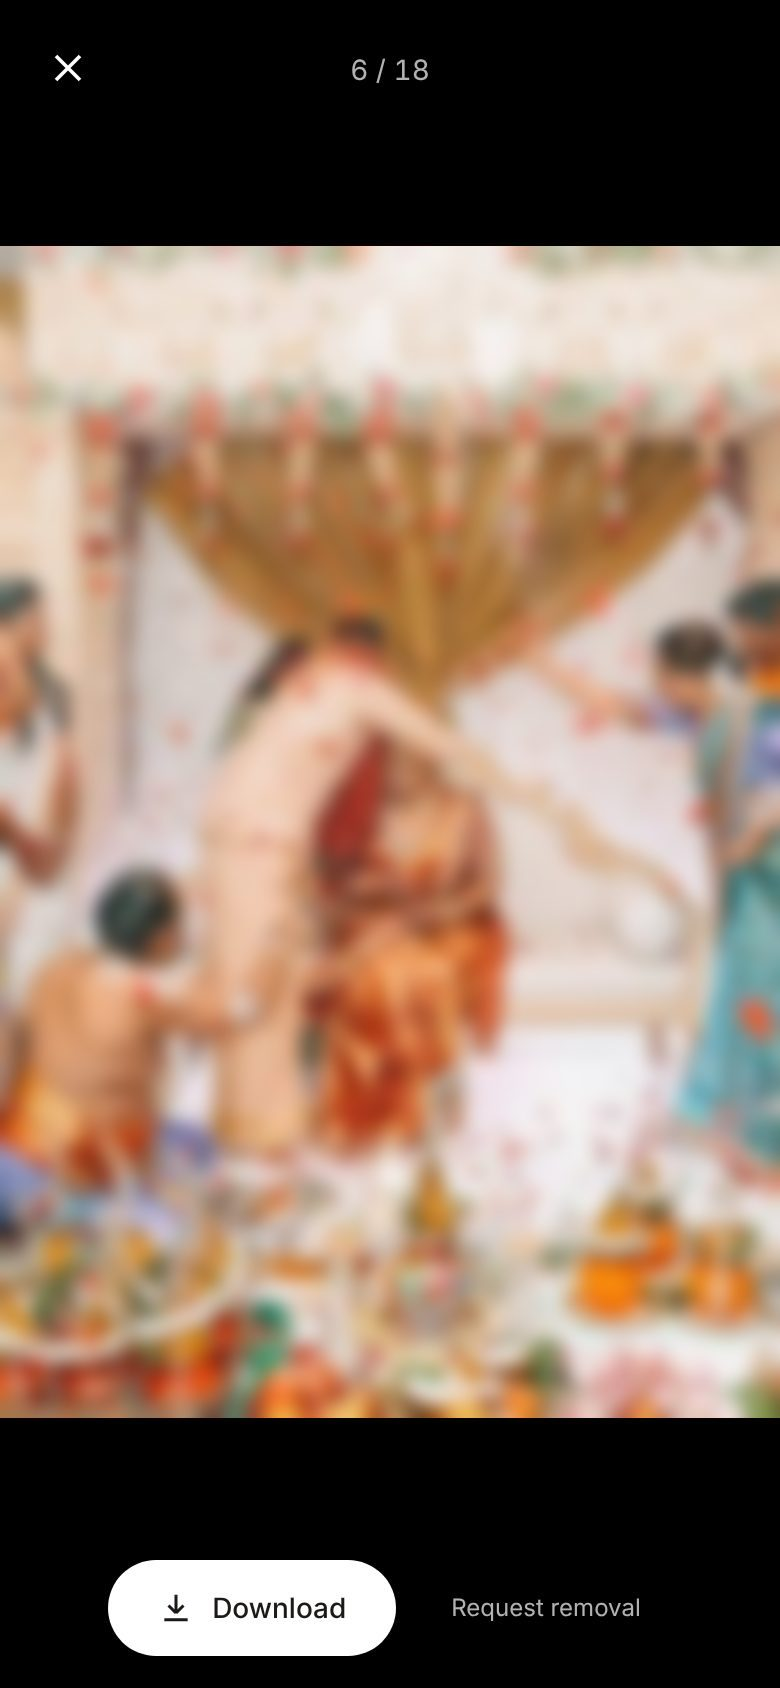
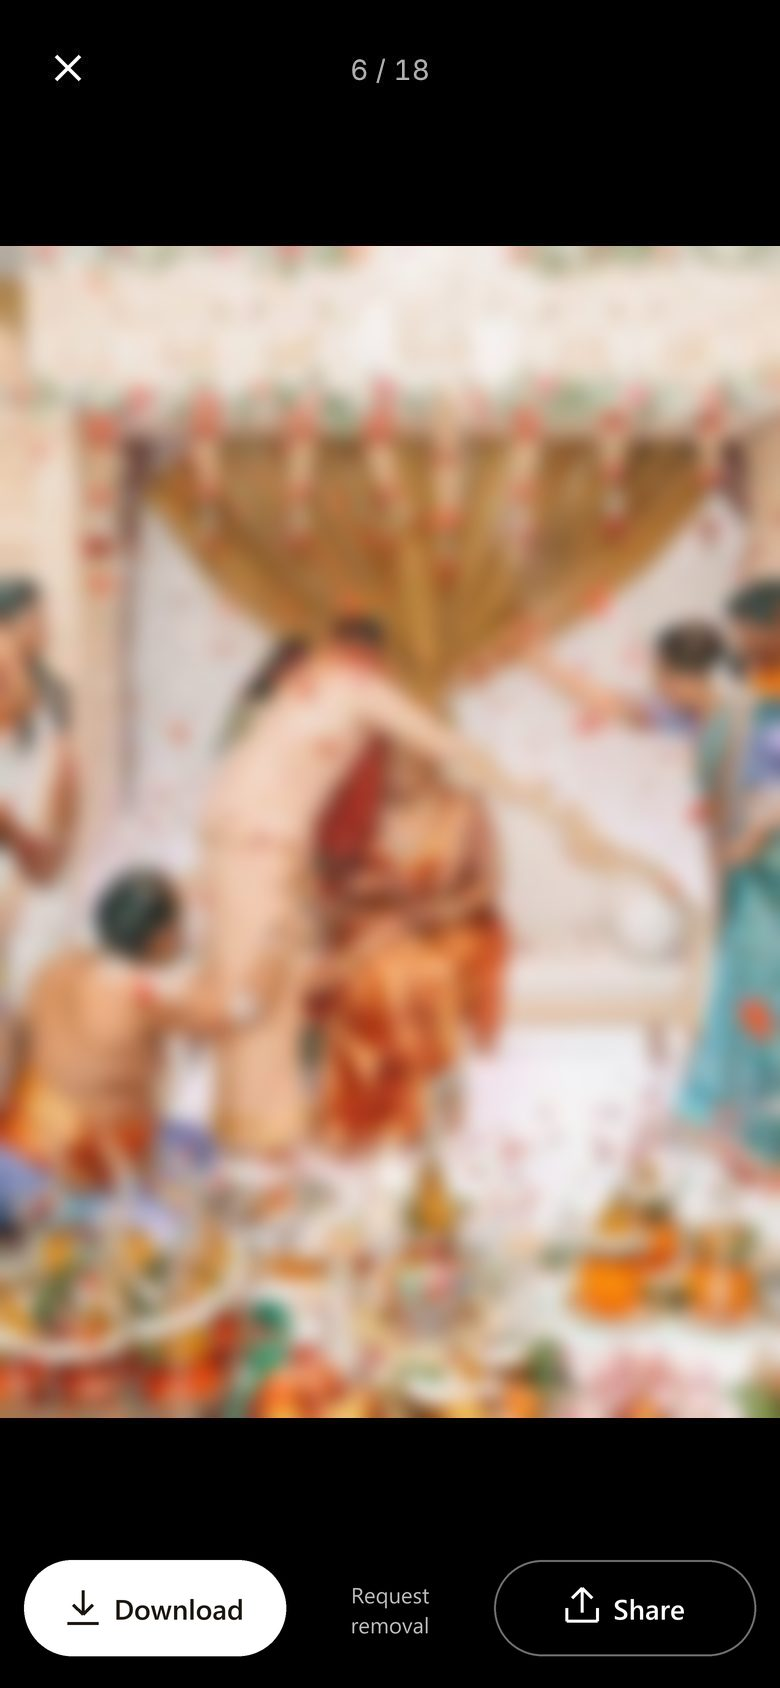
Instant Memories page: match the latest app, add pricing
- Uploader for Windows or Mac, up to 4 cameras per laptop, pause a
  camera; guests can Share (viewer screenshot shows the Share button).
- Galleries open 6 months, extendable at Rs 15/GB, deleted 30 days
  after closing; couples go to their studio for login help.
- Studio features: print-ready board and table cards, bulk actions and
  computer uploads, client galleries, branded guides.
- New pricing section (Main, Quick, packs, client gallery) with a link
  to the app's pricing page; FAQ answers on cost and payment.
- Hero's second button speaks to studios: "Put your brand on every
  phone" instead of the couples CTA.

Changed region(s): [[0.0308, 0.9242, 0.5538, 0.9858], [0.5846, 0.9242, 0.8923, 0.9858]]

diff --git a/src/data/instantMemories.js b/src/data/instantMemories.js
@@ -10,13 +10,11 @@
 
 export const IM_DEMO_MESSAGE =
   "Hi McreatiK, I'm a photographer and I'd like a demo of Instant Memories, the live wedding gallery."
-export const IM_COUPLE_MESSAGE =
-  "Hi McreatiK, we're getting married and we'd like Instant Memories (the live photo gallery) at our wedding."
 
 export const IM_STEPS = [
   {
     title: 'Shoot as usual',
-    body: "Your camera sends each photo over Wi-Fi to a laptop running the Instant Memories uploader. More than one camera? Add one uploader each.",
+    body: 'Your camera sends each photo over Wi-Fi to a laptop running the Instant Memories uploader for Windows or Mac. Up to 4 cameras can share one laptop.',
   },
   {
     title: 'It appears in seconds',
@@ -29,12 +27,14 @@ export const IM_STEPS = [
 ]
 
 export const IM_FOR_STUDIOS = [
-  { title: 'Your brand on every phone', body: 'Your studio name, logo and Instagram on the gallery and the printed QR poster. Every guest sees who took the photos.' },
-  { title: 'Live during the event', body: 'Photos reach guests while the event is still happening, not weeks later. It is the moment people talk about.' },
-  { title: 'Built for real venues', body: 'Several cameras at once, an offline queue for bad Wi-Fi, duplicates skipped automatically.' },
-  { title: 'You stay in control', body: "Hide, delete or like photos and they update on guests' phones instantly. Sort photos into albums like Couple, Rituals and Candid." },
-  { title: 'Album selection, sorted', body: "Give the couple their own login. They pick album photos, you see the picks live and download them as a ZIP." },
-  { title: 'Proof that it worked', body: 'See how many guests opened the gallery, scanned the QR, viewed and saved photos — and which photos they loved most.' },
+  { title: 'Your brand on every phone', body: 'Your studio name, logo and Instagram on the gallery, so every guest sees who took the photos.' },
+  { title: 'Print-ready board and table cards', body: 'Download an 18×24 in studio board in Cream, Dark or White, plus event and table cards with the QR code, ready for the printer.' },
+  { title: 'Built for real venues', body: 'Up to 4 cameras on one laptop, an offline queue for bad Wi-Fi and duplicates skipped. Pause a camera for private moments.' },
+  { title: 'You stay in control', body: "Hide, delete or like photos, one or many at once, and guests' phones update instantly. Add photos from your computer too." },
+  { title: 'Album selection, sorted', body: 'Give the couple their own login. They pick album photos, you see the picks live and download them as a ZIP.' },
+  { title: 'Client galleries without a live event', body: 'Just delivering photos? Create a private, branded client gallery for the couple to pick album photos and download.' },
+  { title: 'Guides with your logo', body: 'Ready-made guides for your couples and guests, with your studio name and logo, to share as a PDF.' },
+  { title: 'Proof that it worked', body: 'See how many guests opened the gallery, scanned the QR, viewed, saved and shared photos — and which ones they loved most.' },
 ]
 
 export const IM_FOR_COUPLES = [
@@ -47,7 +47,7 @@ export const IM_FOR_COUPLES = [
 export const IM_FOR_GUESTS = [
   { title: 'Scan and open', body: 'Point your phone camera at the QR code. The gallery opens in your browser — nothing to install, no name or number asked.' },
   { title: 'Watch it live', body: 'New photos appear on their own while the page is open — no refreshing.' },
-  { title: 'Save your favourites', body: 'Download your favourite photos to your phone in one tap (on some iPhones, press and hold the photo to save it).' },
+  { title: 'Save and share', body: 'Download your favourite photos in one tap, or share them straight to family from your phone.' },
   { title: 'Your privacy respected', body: 'Location is removed from every photo, and anyone can ask for a photo of them to be taken down.' },
 ]
 
@@ -57,7 +57,8 @@ export const IM_PRIVACY = [
   'Full-quality originals are private: only the couple and the studio can download them, through links that expire.',
   'Guests never sign up: we collect no names, phone numbers or emails.',
   'Anyone can request a photo removal; we aim to take it down within 3 working days, and the studio can hide it instantly.',
-  'Photos are stored with Cloudflare and data with Supabase, encrypted, and deleted on the date the studio sets.',
+  'Photos are stored with Cloudflare and data with Supabase, encrypted.',
+  'Galleries stay open for 6 months (longer only if the studio extends them) and are deleted permanently 30 days after they close.',
 ]
 
 export const IM_FAQ_TABS = ['Studios', 'Couples', 'Guests']
@@ -65,15 +66,17 @@ export const IM_FAQ_TABS = ['Studios', 'Couples', 'Guests']
 export const IM_FAQ = [
   /* Studios */
   { tab: 'Studios', question: 'Which cameras work?', answer: 'Any camera with FTP transfer over Wi-Fi (for example the Canon EOS R6 Mark II). The uploader can also watch a folder, such as a card-reader or tethering folder.' },
-  { tab: 'Studios', question: 'Can several photographers upload to one event?', answer: 'Yes. Add one uploader per camera or laptop; the dashboard shows which cameras are online and how many photos each one sent.' },
+  { tab: 'Studios', question: 'Can several photographers upload to one event?', answer: 'Yes. One laptop handles up to 4 cameras, and you can add more laptops. The dashboard shows each camera by name, whether it is online and how many photos it sent.' },
+  { tab: 'Studios', question: 'Can I stop a camera during private moments?', answer: 'Yes. Pause a camera from the uploader or the dashboard; nothing it shoots while paused goes to the gallery.' },
   { tab: 'Studios', question: 'What if the venue internet drops?', answer: 'Nothing is lost. Every photo is saved to the laptop’s queue first and uploads when the connection returns; guests’ phones catch up automatically.' },
   { tab: 'Studios', question: 'Do my RAW files get uploaded?', answer: 'No. During the event only a light gallery copy is sent, so it stays fast. You can add full-quality JPEG originals from the dashboard later for the couple.' },
   { tab: 'Studios', question: 'Can I remove a photo from guests’ phones?', answer: 'Yes. Hide or delete it and it disappears from every open gallery immediately — one photo or many at once.' },
   { tab: 'Studios', question: 'Who owns the photos?', answer: 'You and your couple. We only store and show them for your event; we don’t use them for anything else, show ads or sell data.' },
-  { tab: 'Studios', question: 'How long are photos kept?', answer: 'Until the delete date you set for each event (by default 90 days after the event). Deleting an event removes its photos permanently.' },
-  { tab: 'Studios', question: 'How much does it cost?', answer: 'It depends on how many events you shoot — there is per-event pricing and a monthly package. Message us for a quick demo and a quote for your volume.' },
+  { tab: 'Studios', question: 'How long are photos kept?', answer: 'Each gallery stays open for 6 months. Keep it 6 more months for ₹15 per GB stored; otherwise it closes and its photos are deleted 30 days later.' },
+  { tab: 'Studios', question: 'How much does it cost?', answer: 'A Main event (weddings, receptions, big events) is ₹2,499 and a Quick event (up to about 300 guests) is ₹1,499. Monthly packs start at ₹2,499 for 2 events, and unused events carry over one month.' },
+  { tab: 'Studios', question: 'How do I pay?', answer: 'From your dashboard, by card, netbanking, UPI or wallet, or by scanning a UPI QR. Events are added the moment the payment goes through.' },
   /* Couples */
-  { tab: 'Couples', question: 'How do we get our photos?', answer: 'Your photographer sends you a private login. You see every photo by moment, pick album favourites and download full quality.' },
+  { tab: 'Couples', question: 'How do we get our photos?', answer: 'Your photographer sends you a private login. You see every photo by moment, pick album favourites and download full quality. For help with your login, ask your photographer.' },
   { tab: 'Couples', question: 'Can both of us use the login?', answer: 'Yes — one login for the two of you, on as many phones as you like.' },
   { tab: 'Couples', question: 'Can we download everything at once?', answer: 'Yes, as ZIP files: everything, a category, or just the photos you select.' },
   { tab: 'Couples', question: 'Who else can see our photos?', answer: 'Guests with your QR code see the gallery versions. Only you and your studio can open your login and the full-quality originals.' },
@@ -81,6 +84,20 @@ export const IM_FAQ = [
   /* Guests */
   { tab: 'Guests', question: 'Do I need an app?', answer: 'No. Scan the QR code and the gallery opens in your phone’s browser. No sign-up, no name or number.' },
   { tab: 'Guests', question: 'How soon do photos appear?', answer: 'Usually within seconds to a minute of being taken. Keep the page open and new photos appear on their own.' },
-  { tab: 'Guests', question: 'Can I save photos?', answer: 'Yes — download your favourite photos. Open a photo and tap Download. On some iPhones, press and hold the photo and tap “Save image”.' },
-  { tab: 'Guests', question: 'I’m in a photo and want it removed.', answer: 'Open the photo and tap “Request removal”, or email connect@mcreatik.com with the gallery link. We aim to remove it within 3 working days.' },
+  { tab: 'Guests', question: 'Can I save or share photos?', answer: 'Yes. Open a photo and tap Download to save it, or Share to send it from your phone. On some iPhones, press and hold the photo and tap “Save image”.' },
+  { tab: 'Guests', question: 'I’m in a photo and want it removed.', answer: 'Open the photo and tap “Request removal”, or email connect@mcreatik.com with the gallery link. We pass it to the studio and aim to remove it within 3 working days.' },
+]
+
+/* Prices as the app charges them today (im-api.mcreatik.com/api/public/pricing).
+   Update these whenever the app's billing settings change. */
+export const IM_PRICING_URL = 'https://live.mcreatik.com/pricing'
+export const IM_PRICES = [
+  { name: 'Main event', price: '₹2,499', unit: 'per event', body: 'Weddings, receptions, big birthdays and large events.' },
+  { name: 'Quick event', price: '₹1,499', unit: 'per event', body: 'Engagements, small birthdays and baby showers, up to about 300 guests.' },
+  { name: 'Monthly packs', price: 'from ₹2,499', unit: 'per month', body: '2 or 4 events a month. Unused events carry over one month.' },
+  { name: 'Client gallery', price: '₹250', unit: 'setup + ₹15 per GB', body: 'A private branded gallery to deliver photos, without a live event.' },
+]
+export const IM_PRICE_NOTES = [
+  'Every live event includes 5 GB of storage; more is ₹15 per GB.',
+  'Pay online by card, netbanking, UPI or wallet, with no extra fee.',
 ]

diff --git a/src/components/studios/instant-memories/Sections.jsx b/src/components/studios/instant-memories/Sections.jsx
@@ -11,14 +11,15 @@ import React, { memo, useEffect, useState } from 'react'
 import { Link } from 'react-router-dom'
 import { AnimatePresence, motion, useReducedMotion } from 'framer-motion'
 import {
-  FiArrowRight, FiBarChart2, FiCamera, FiCheck, FiDownload, FiHeart, FiImage, FiLock, FiMail,
-  FiMessageCircle, FiSliders, FiSmartphone, FiStar, FiUsers, FiWifi,
+  FiArrowRight, FiBarChart2, FiCamera, FiCheck, FiDownload, FiFileText, FiFolder, FiHeart, FiImage, FiLock, FiMail,
+  FiMessageCircle, FiPrinter, FiShare2, FiSliders, FiSmartphone, FiStar, FiUsers, FiWifi,
 } from 'react-icons/fi'
 import { BsQrCode } from 'react-icons/bs'
 import { RevealText } from '../../motion'
 import { getWhatsAppHref } from '../../../utils/whatsapp'
 import {
-  IM_COUPLE_MESSAGE, IM_DEMO_MESSAGE, IM_FOR_COUPLES, IM_FOR_GUESTS, IM_FOR_STUDIOS, IM_PRIVACY, IM_STEPS,
+  IM_DEMO_MESSAGE, IM_FOR_COUPLES, IM_FOR_GUESTS, IM_FOR_STUDIOS, IM_PRICE_NOTES, IM_PRICES,
+  IM_PRICING_URL, IM_PRIVACY, IM_STEPS,
 } from '../../../data/instantMemories'
 import studiosLogoDark from '../../../assets/studios-logo-dark-bg.webp'
 
@@ -184,7 +185,6 @@ function FloatCard({ children, className = '', delay = 0 }) {
 }
 
 const demoHref = getWhatsAppHref(IM_DEMO_MESSAGE)
-const coupleHref = getWhatsAppHref(IM_COUPLE_MESSAGE)
 
 export const InstantMemoriesHero = memo(function InstantMemoriesHero() {
   const reduce = useReducedMotion()
@@ -217,9 +217,9 @@ export const InstantMemoriesHero = memo(function InstantMemoriesHero() {
               className="inline-flex items-center gap-2 rounded-full bg-[#C9971F] px-6 py-3 text-sm font-semibold text-white shadow-lg shadow-[#C9971F]/25 transition-all duration-200 hover:-translate-y-0.5 hover:bg-[#b3860f]">
               <FiMessageCircle className="w-4 h-4" /> Book a demo
             </a>
-            <a href={coupleHref} target="_blank" rel="noreferrer"
+            <a href="#for-studios"
               className="inline-flex items-center gap-2 rounded-full border border-white/30 px-6 py-3 text-sm font-semibold text-white transition-colors hover:border-white hover:bg-white/10">
-              Getting married? Have it at your wedding <FiArrowRight className="w-4 h-4" />
+              Put your brand on every phone <FiArrowRight className="w-4 h-4" />
             </a>
           </div>
           <ul className="mt-10 flex flex-wrap gap-x-6 gap-y-2 font-body text-sm text-white/70">
@@ -291,7 +291,7 @@ export const InstantMemoriesHowItWorks = memo(function InstantMemoriesHowItWorks
   )
 })
 
-const STUDIO_ICONS = [FiStar, FiCamera, FiWifi, FiSliders, FiHeart, FiBarChart2]
+const STUDIO_ICONS = [FiStar, FiPrinter, FiCamera, FiSliders, FiHeart, FiFolder, FiFileText, FiBarChart2]
 
 export const InstantMemoriesForStudios = memo(function InstantMemoriesForStudios() {
   return (
@@ -337,7 +337,7 @@ export const InstantMemoriesForStudios = memo(function InstantMemoriesForStudios
 })
 
 const COUPLE_ICONS = [FiLock, FiHeart, FiDownload, FiUsers]
-const GUEST_ICONS = [FiSmartphone, FiWifi, FiDownload, FiLock]
+const GUEST_ICONS = [FiSmartphone, FiWifi, FiShare2, FiLock]
 
 function BenefitList({ items, icons }) {
   return (
@@ -421,6 +421,44 @@ export const InstantMemoriesPrivacy = memo(function InstantMemoriesPrivacy() {
   )
 })
 
+export const InstantMemoriesPricing = memo(function InstantMemoriesPricing() {
+  return (
+    <section id="pricing" className="relative py-20 lg:py-28 bg-[#FAF7F0] scroll-mt-28">
+      <div className="max-w-6xl mx-auto px-5 sm:px-8">
+        <Rise className="mb-10 max-w-2xl">
+          <Eyebrow>Pricing</Eyebrow>
+          <RevealText as="h2" text="Simple prices, per event or by the month" className="font-display italic text-3xl sm:text-4xl lg:text-5xl text-[#1C1710]" />
+        </Rise>
+        <ul className="grid gap-5 sm:grid-cols-2 lg:grid-cols-4">
+          {IM_PRICES.map(({ name, price, unit, body }, i) => (
+            <li key={name}>
+              <Rise delay={i * 0.06} className="h-full">
+                <div className="h-full rounded-2xl border border-black/5 bg-white p-6 shadow-sm">
+                  <h3 className="font-body font-semibold text-[#1C1710]">{name}</h3>
+                  <p className="mt-3 font-display text-3xl text-[#1C1710] tabular-nums">{price}</p>
+                  <p className="mt-1 font-body text-xs text-[#6B6153]">{unit}</p>
+                  <p className="mt-4 font-body text-sm leading-relaxed text-[#4A4438]">{body}</p>
+                </div>
+              </Rise>
+            </li>
+          ))}
+        </ul>
+        <Rise className="mt-8 flex flex-col gap-4 sm:flex-row sm:items-center sm:justify-between">
+          <ul className="space-y-1.5 font-body text-sm text-[#4A4438]">
+            {IM_PRICE_NOTES.map((note) => (
+              <li key={note} className="flex items-start gap-2"><FiCheck className="mt-0.5 w-4 h-4 shrink-0 text-[#C9971F]" />{note}</li>
+            ))}
+          </ul>
+          <a href={IM_PRICING_URL} target="_blank" rel="noreferrer"
+            className="inline-flex shrink-0 items-center gap-2 font-body text-sm font-semibold text-[#C9971F] underline-offset-4 hover:underline">
+            Full pricing and packs <FiArrowRight className="w-4 h-4" />
+          </a>
+        </Rise>
+      </div>
+    </section>
+  )
+})
+
 export const InstantMemoriesCTA = memo(function InstantMemoriesCTA() {
   return (
     <section id="get-started" className="relative py-20 lg:py-28 bg-white scroll-mt-28">
@@ -428,8 +466,8 @@ export const InstantMemoriesCTA = memo(function InstantMemoriesCTA() {
         <FiImage className="mx-auto w-8 h-8 text-[#C9971F]" aria-hidden="true" />
         <h2 className="mt-4 font-display italic text-3xl sm:text-4xl text-[#1C1710]">See it live in ten minutes</h2>
         <p className="mt-4 font-body text-[#4A4438] leading-relaxed">
-          Pricing depends on how many events you shoot — per event or a monthly package. Message us for a quick demo on
-          your phone and a quote for your studio.
+          Message us for a quick demo on your phone. We set up your studio account and walk you through your first
+          event.
         </p>
         <div className="mt-8 flex flex-wrap justify-center gap-3">
           <a href={demoHref} target="_blank" rel="noreferrer"

diff --git a/src/components/studios/instant-memories/InstantMemories.test.jsx b/src/components/studios/instant-memories/InstantMemories.test.jsx
@@ -1,9 +1,9 @@
 import { describe, it, expect } from 'vitest'
 import { render, screen, fireEvent } from '@testing-library/react'
 import { MemoryRouter } from 'react-router-dom'
-import { InstantMemoriesHero, InstantMemoriesCTA, InstantMemoriesForCouples, InstantMemoriesForGuests } from './Sections'
+import { InstantMemoriesHero, InstantMemoriesCTA, InstantMemoriesForCouples, InstantMemoriesForGuests, InstantMemoriesPricing } from './Sections'
 import InstantMemoriesFAQ from './FAQ'
-import { IM_FAQ } from '../../../data/instantMemories'
+import { IM_FAQ, IM_PRICES, IM_PRICING_URL } from '../../../data/instantMemories'
 
 const inRouter = (ui) => render(<MemoryRouter>{ui}</MemoryRouter>)
 
@@ -13,7 +13,8 @@ describe('Instant Memories page', () => {
     expect(screen.getByRole('heading', { level: 1, name: 'Instant Memories' })).toBeInTheDocument()
     const demo = screen.getByRole('link', { name: /book a demo/i })
     expect(demo.getAttribute('href')).toMatch(/^https:\/\/wa\.me\/919952758545\?text=.*demo/)
-    expect(screen.getByRole('link', { name: /getting married/i }).getAttribute('href')).toMatch(/wa\.me/)
+    expect(screen.getByRole('link', { name: /put your brand on every phone/i })).toHaveAttribute('href', '#for-studios')
+    expect(screen.queryByText(/getting married/i)).not.toBeInTheDocument()
   })
 
   it('offers WhatsApp and email in the closing call to action', () => {
@@ -38,12 +39,21 @@ describe('Instant Memories page', () => {
     expect(screen.getByText(guestQs[1].answer)).toBeInTheDocument()
   })
 
-  it('gives couples and guests their own sections, with no Share promise to guests', () => {
+  it('gives couples and guests their own sections, and tells guests they can share', () => {
     render(<><InstantMemoriesForCouples /><InstantMemoriesForGuests /></>)
     expect(screen.getByRole('heading', { level: 2, name: 'Your photos, your way' })).toBeInTheDocument()
     const guests = document.getElementById('for-guests')
     expect(guests).toHaveTextContent('Scan, watch, keep')
     expect(guests.querySelector('img').getAttribute('src')).toMatch(/guest-viewer\.jpg$/)
-    expect(guests.textContent).not.toMatch(/share/i)
+    expect(guests.textContent).toMatch(/share/i)
+  })
+
+  it('shows every price card and links to the full pricing page', () => {
+    render(<InstantMemoriesPricing />)
+    for (const { name, price } of IM_PRICES) {
+      expect(screen.getByRole('heading', { level: 3, name })).toBeInTheDocument()
+      expect(screen.getByText(price)).toBeInTheDocument()
+    }
+    expect(screen.getByRole('link', { name: /full pricing/i })).toHaveAttribute('href', IM_PRICING_URL)
   })
 })

diff --git a/src/pages/StudiosInstantMemoriesPage.jsx b/src/pages/StudiosInstantMemoriesPage.jsx
@@ -14,7 +14,7 @@ import { useSEO } from '../hooks/useSEO'
 import { seoFor } from '../seo/routes'
 import {
   InstantMemoriesHero, InstantMemoriesHowItWorks, InstantMemoriesForStudios,
-  InstantMemoriesForCouples, InstantMemoriesForGuests, InstantMemoriesPrivacy, InstantMemoriesCTA,
+  InstantMemoriesForCouples, InstantMemoriesForGuests, InstantMemoriesPrivacy, InstantMemoriesPricing, InstantMemoriesCTA,
 } from '../components/studios/instant-memories/Sections'
 
 const InstantMemoriesFAQ = lazy(() => import('../components/studios/instant-memories/FAQ'))
@@ -36,6 +36,7 @@ function StudiosInstantMemoriesPage() {
       <InstantMemoriesForCouples />
       <InstantMemoriesForGuests />
       <InstantMemoriesPrivacy />
+      <InstantMemoriesPricing />
       <Suspense fallback={null}>
         <InstantMemoriesFAQ />
       </Suspense>
